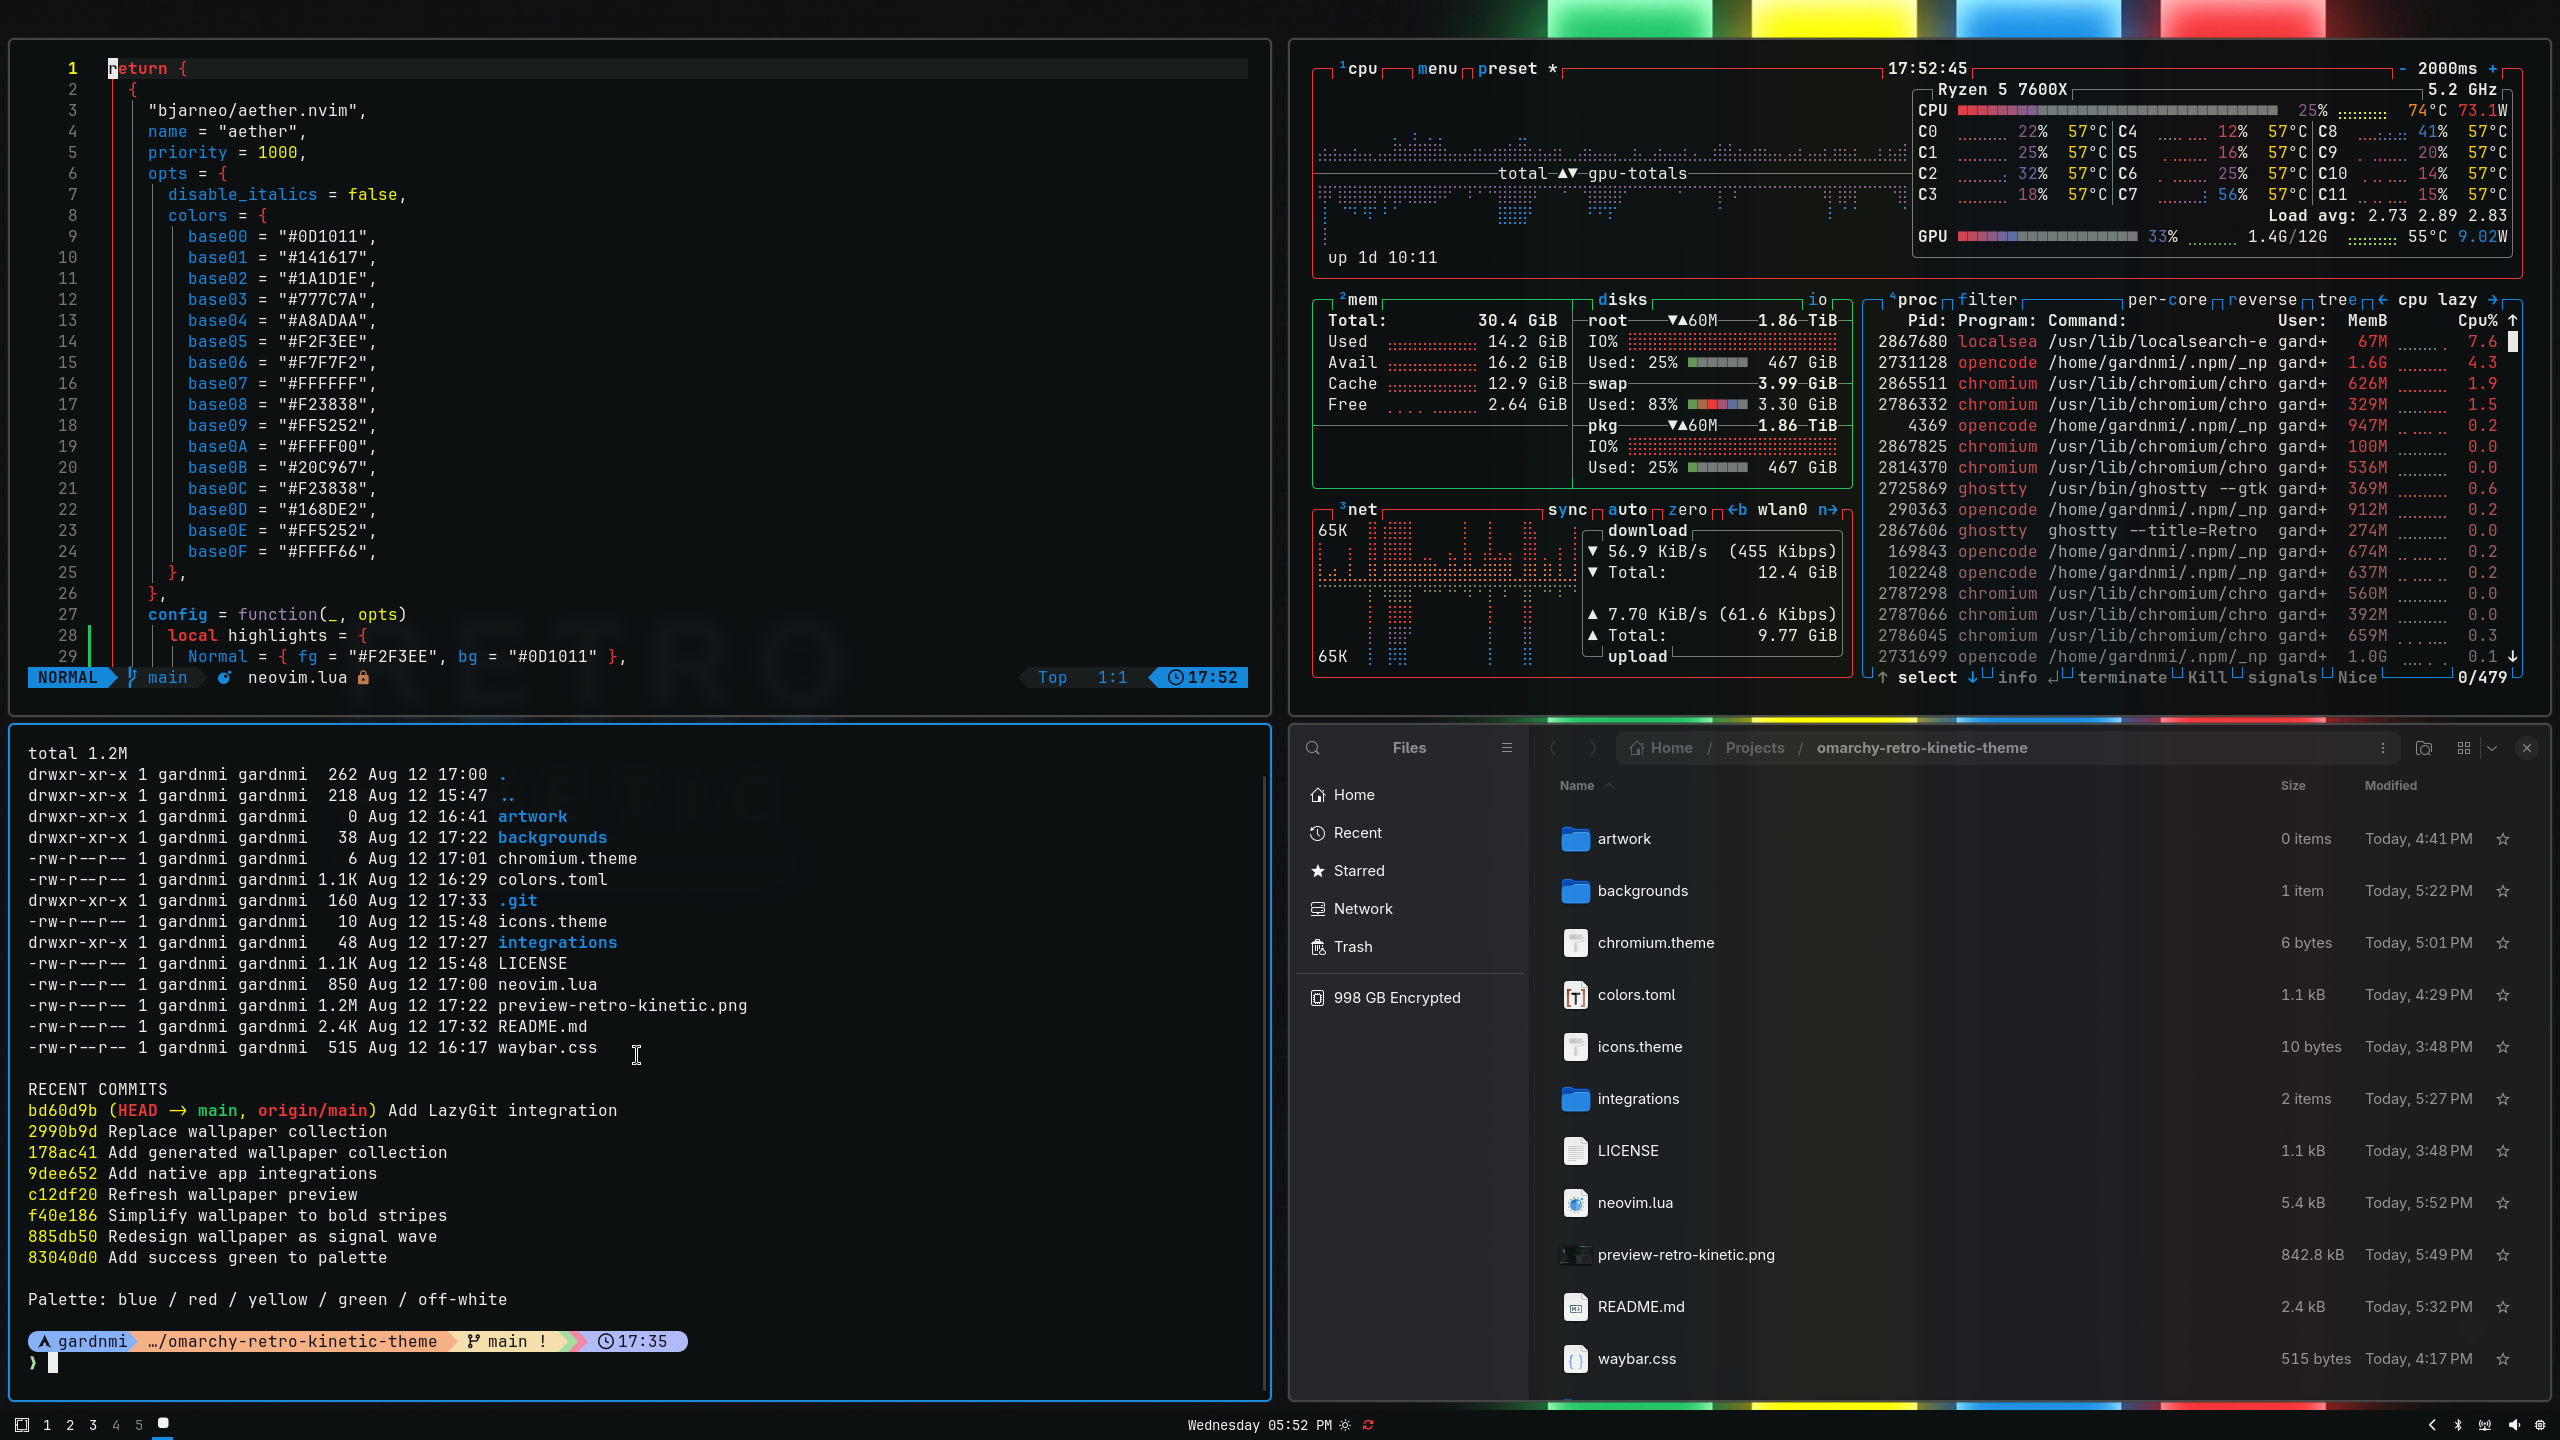
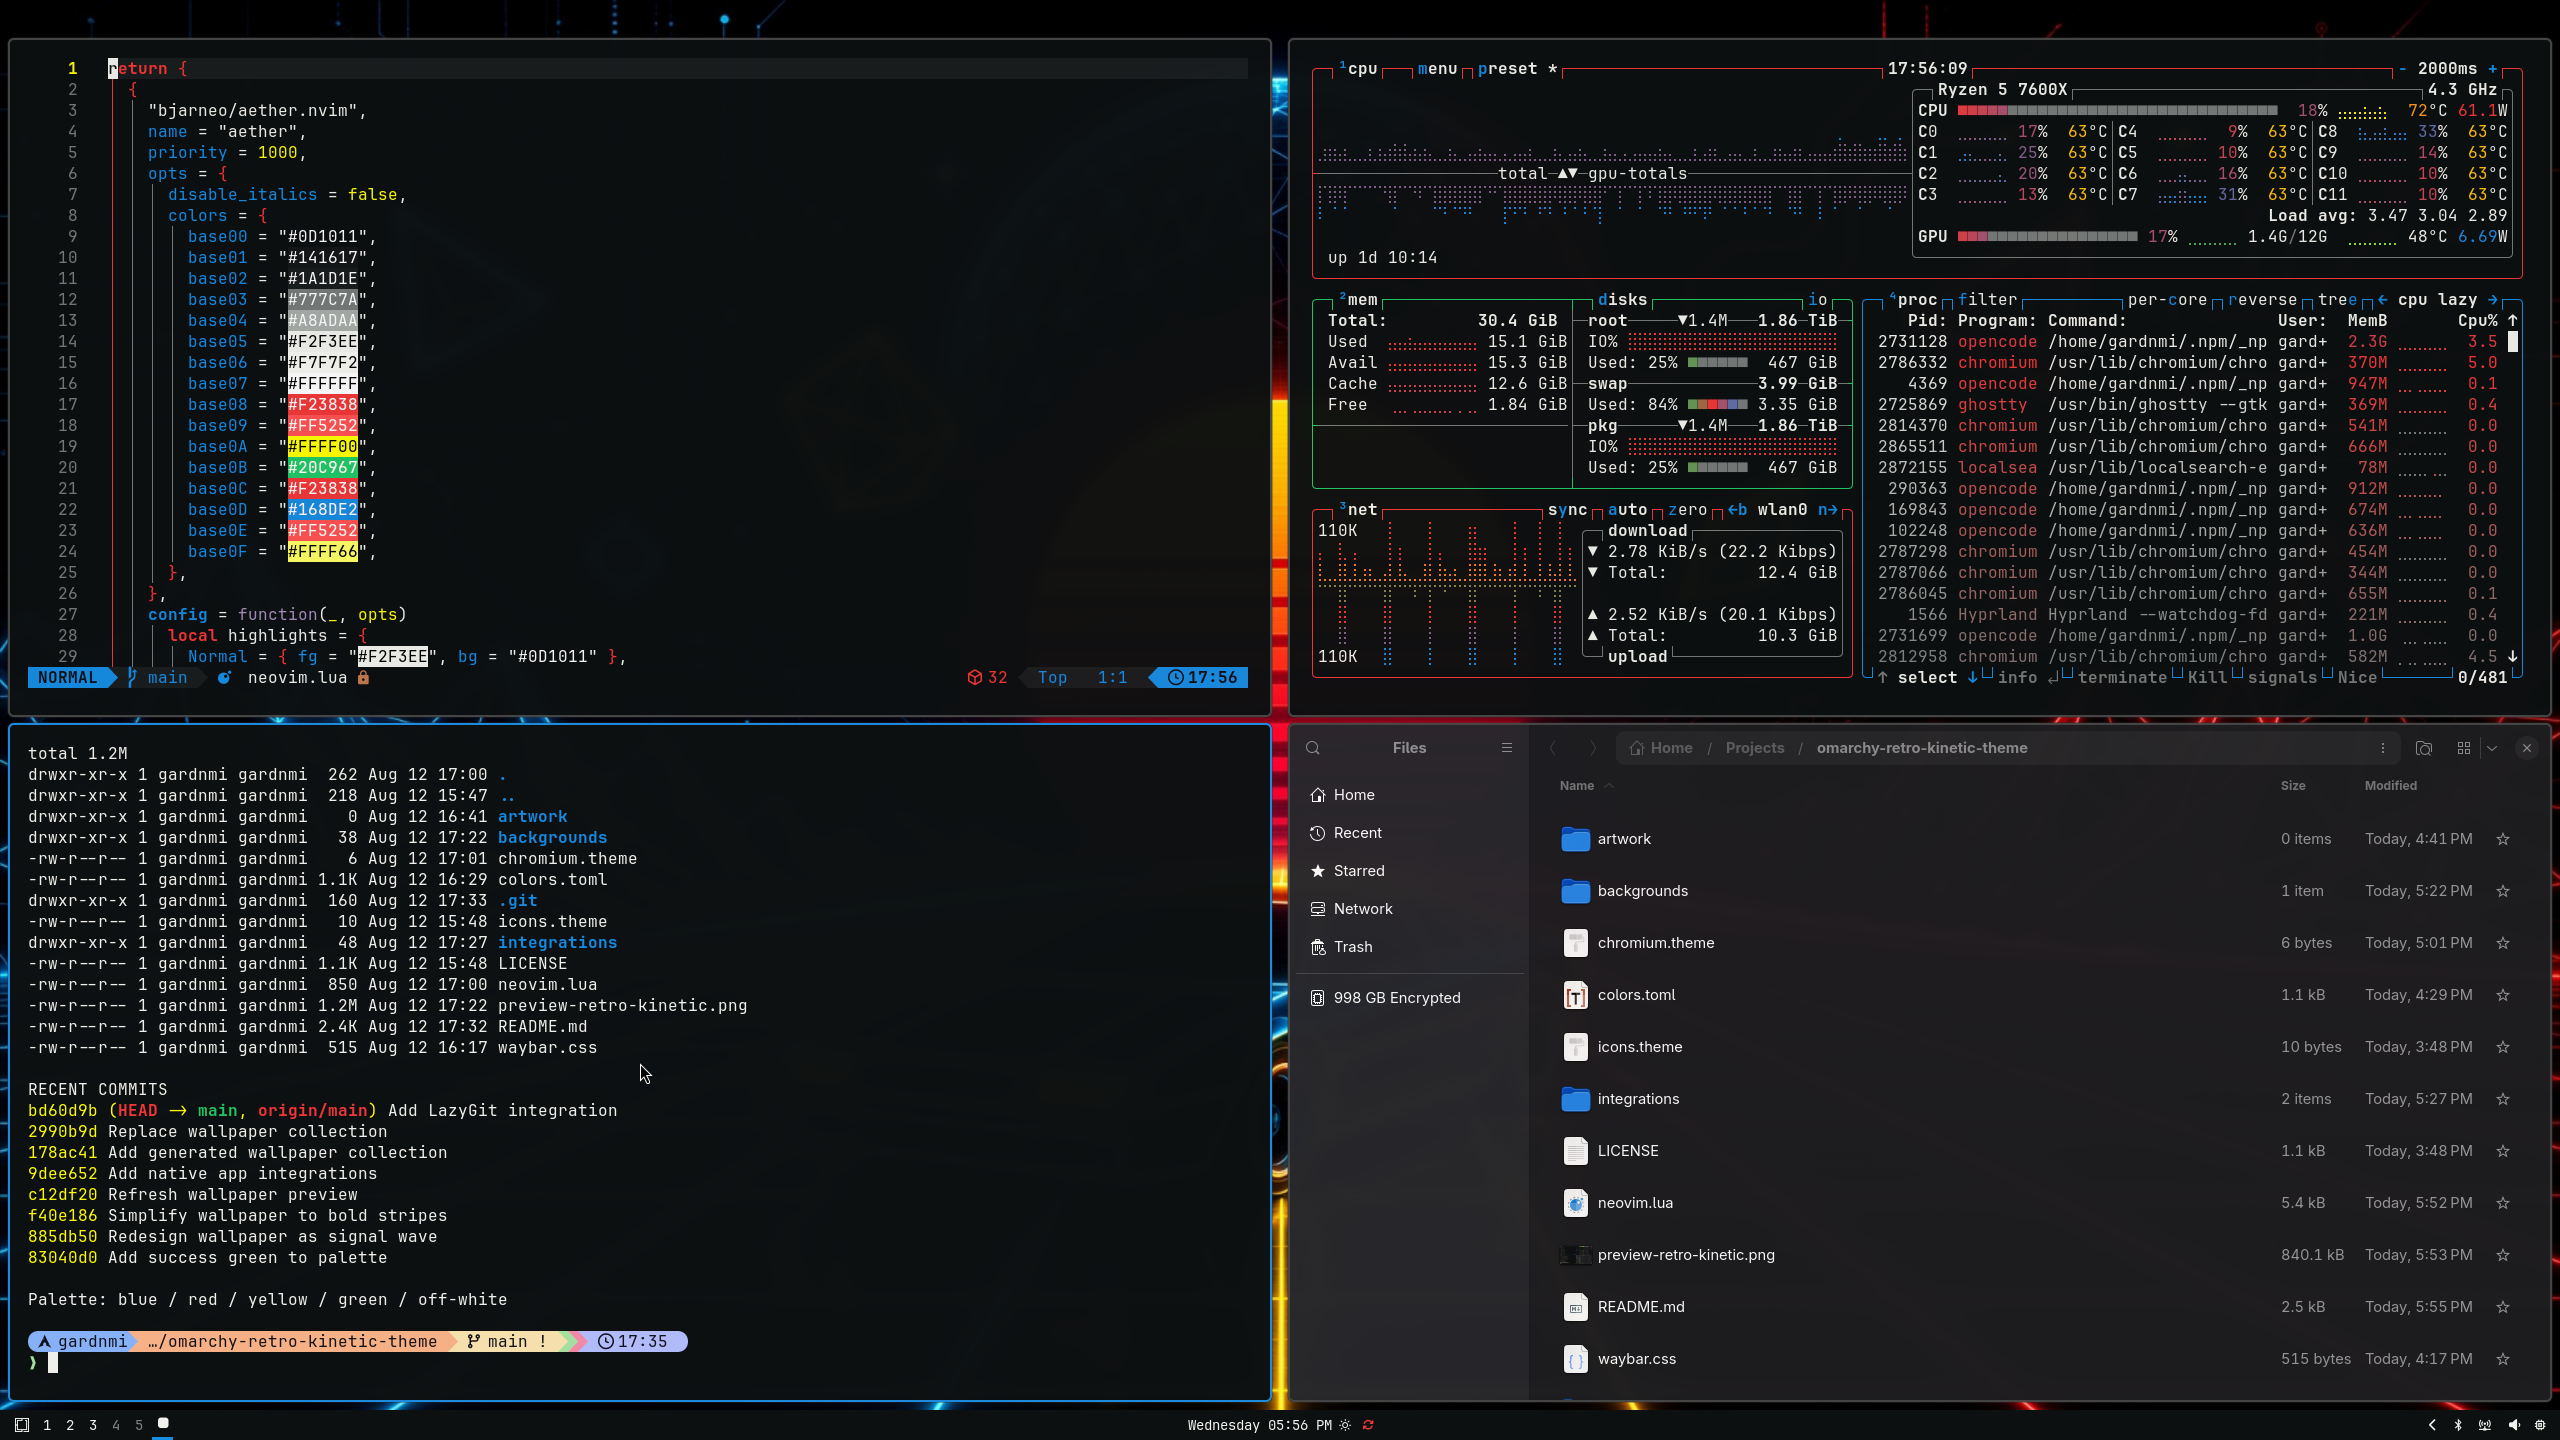
Replace neon wallpaper set

diff --git a/README.md b/README.md
@@ -6,6 +6,9 @@ geometry.
 
 ![Retro Kinetic preview](preview-retro-kinetic.png)
 
+Includes two neon-grid wallpapers. Neon Drive is the default; use
+`omarchy theme bg next` to switch to the geometric grid landscape.
+
 ## Install
 
 ```bash
@@ -54,7 +57,7 @@ automatically.
   stays inside the visual language instead of introducing unrelated hues.
 - ANSI cyan maps to signal red, giving terminal interfaces a regular red
   structural accent instead of reserving red only for errors.
-- The wallpaper is original raster artwork built around four bold retro stripes.
+- Two neon-grid wallpapers extend the palette into a retro-futurist landscape.
 
 ## Inspiration
 
